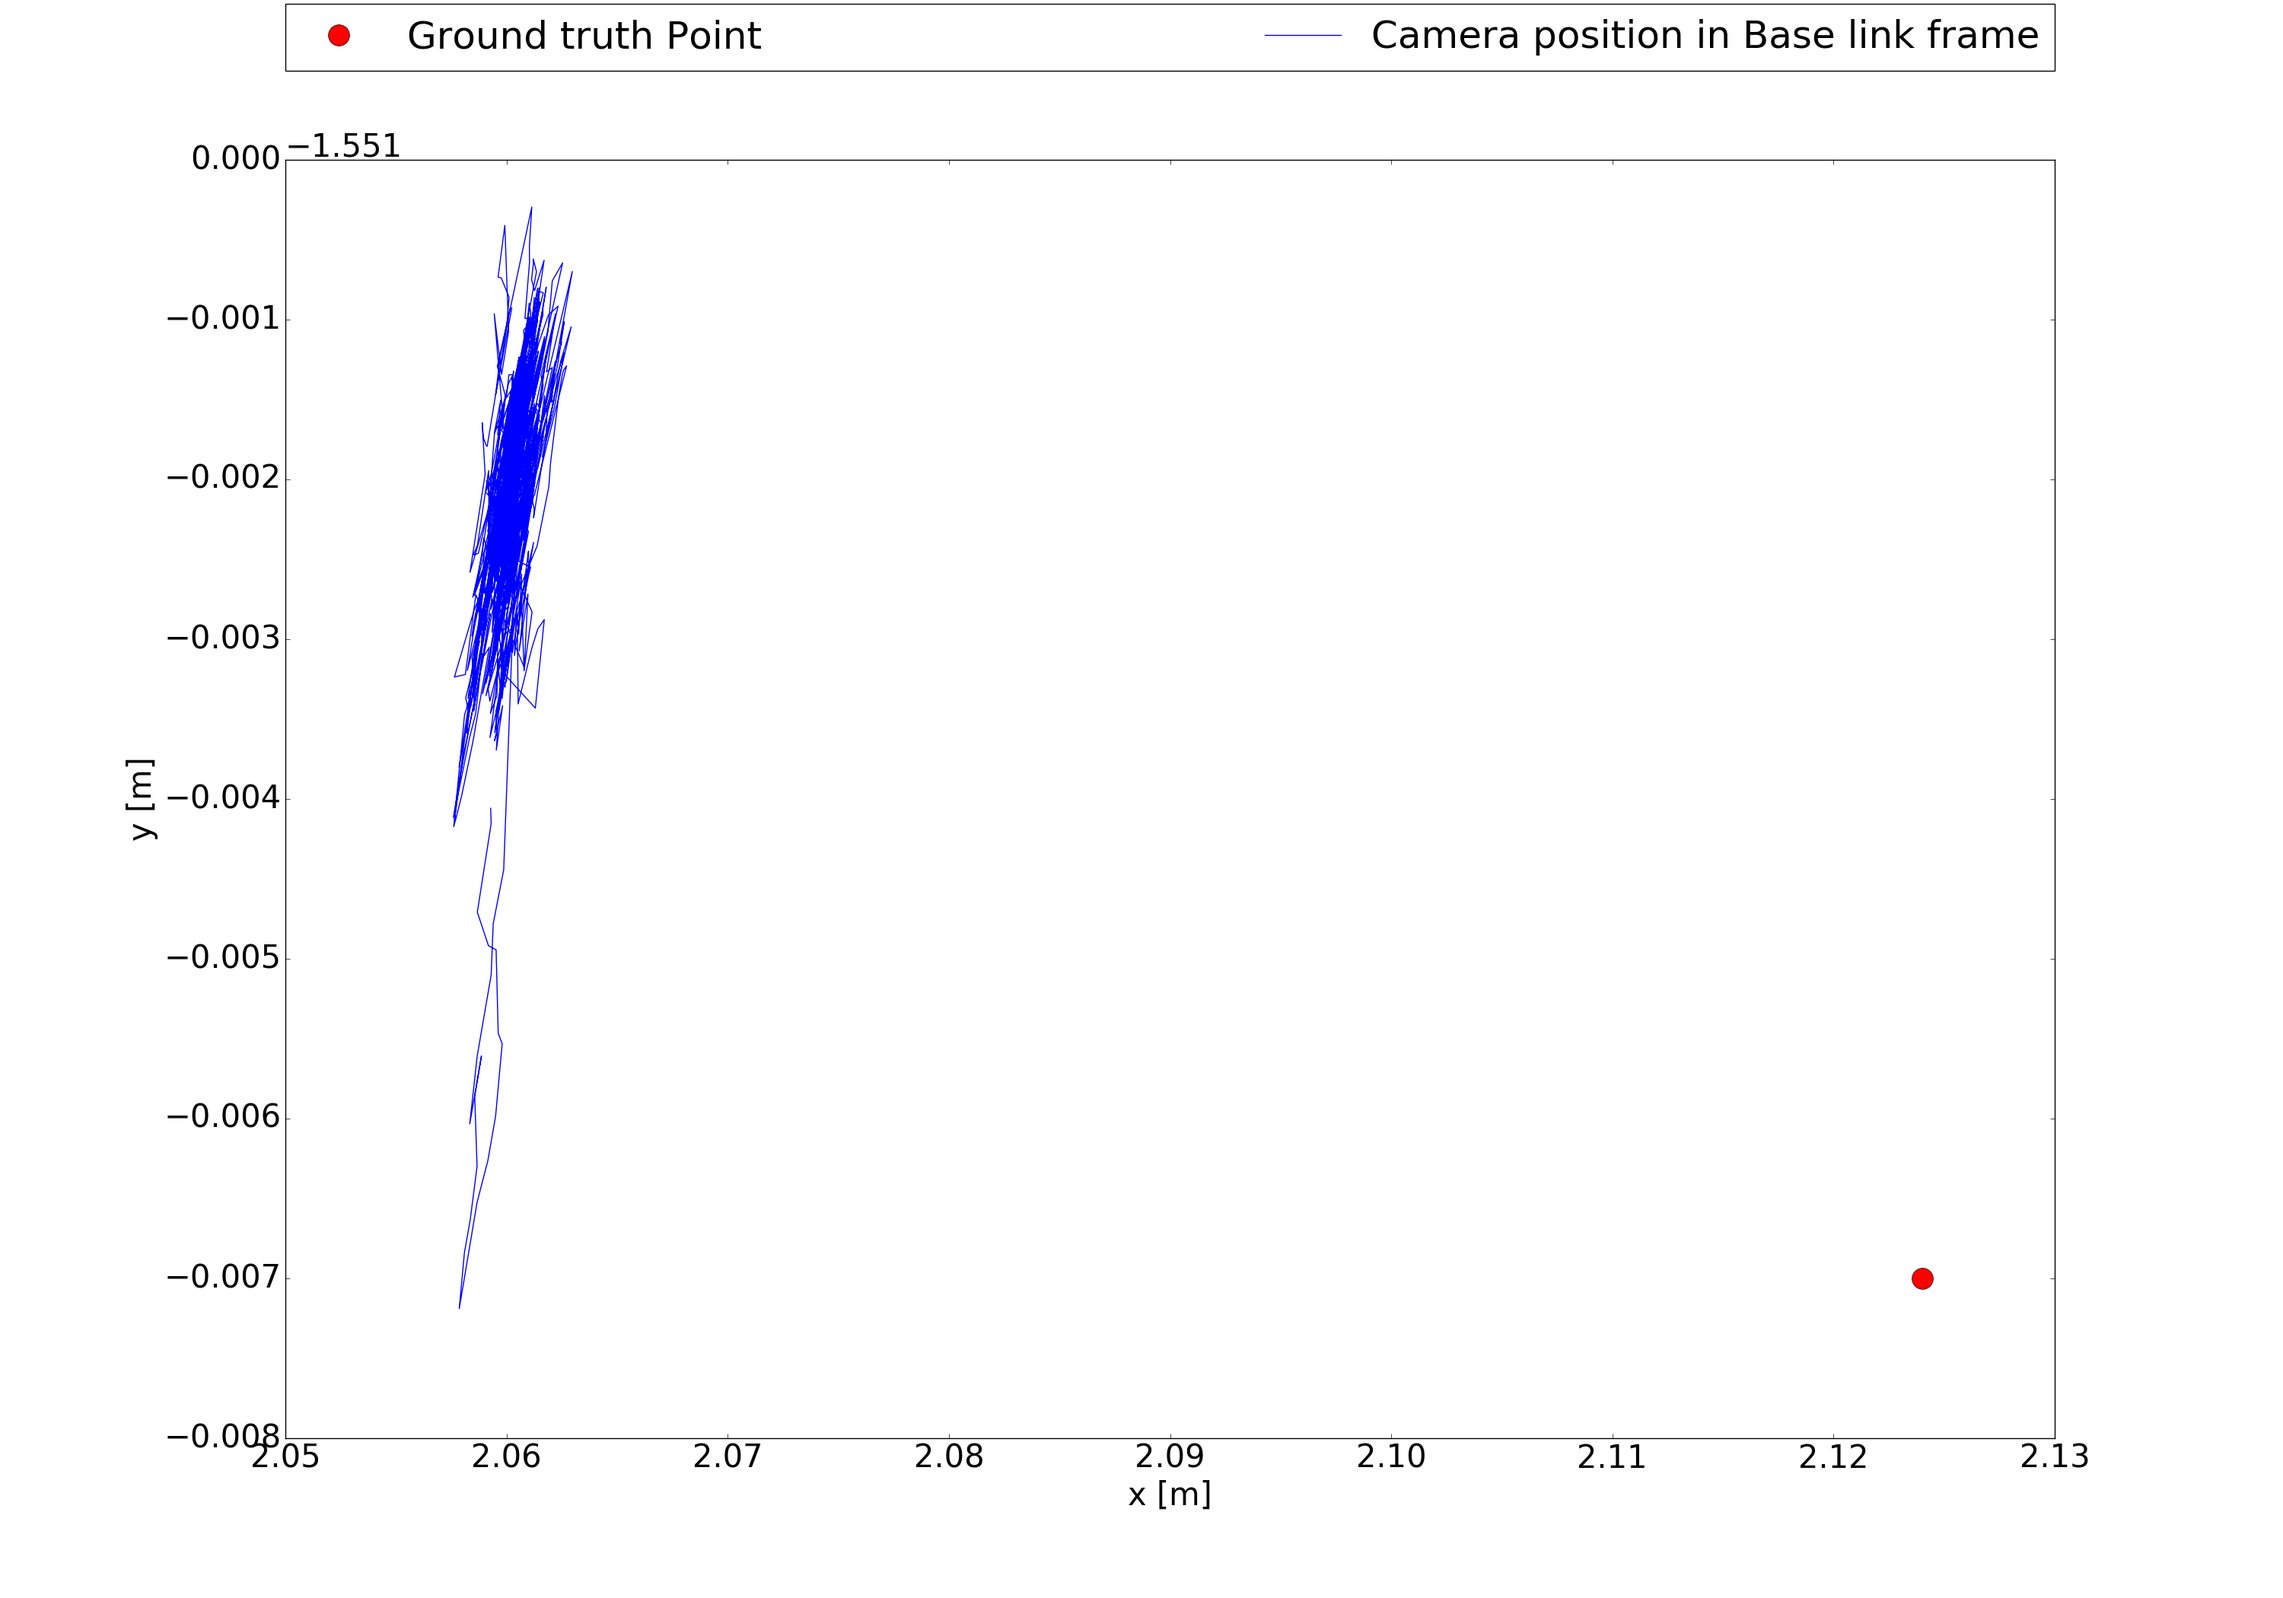
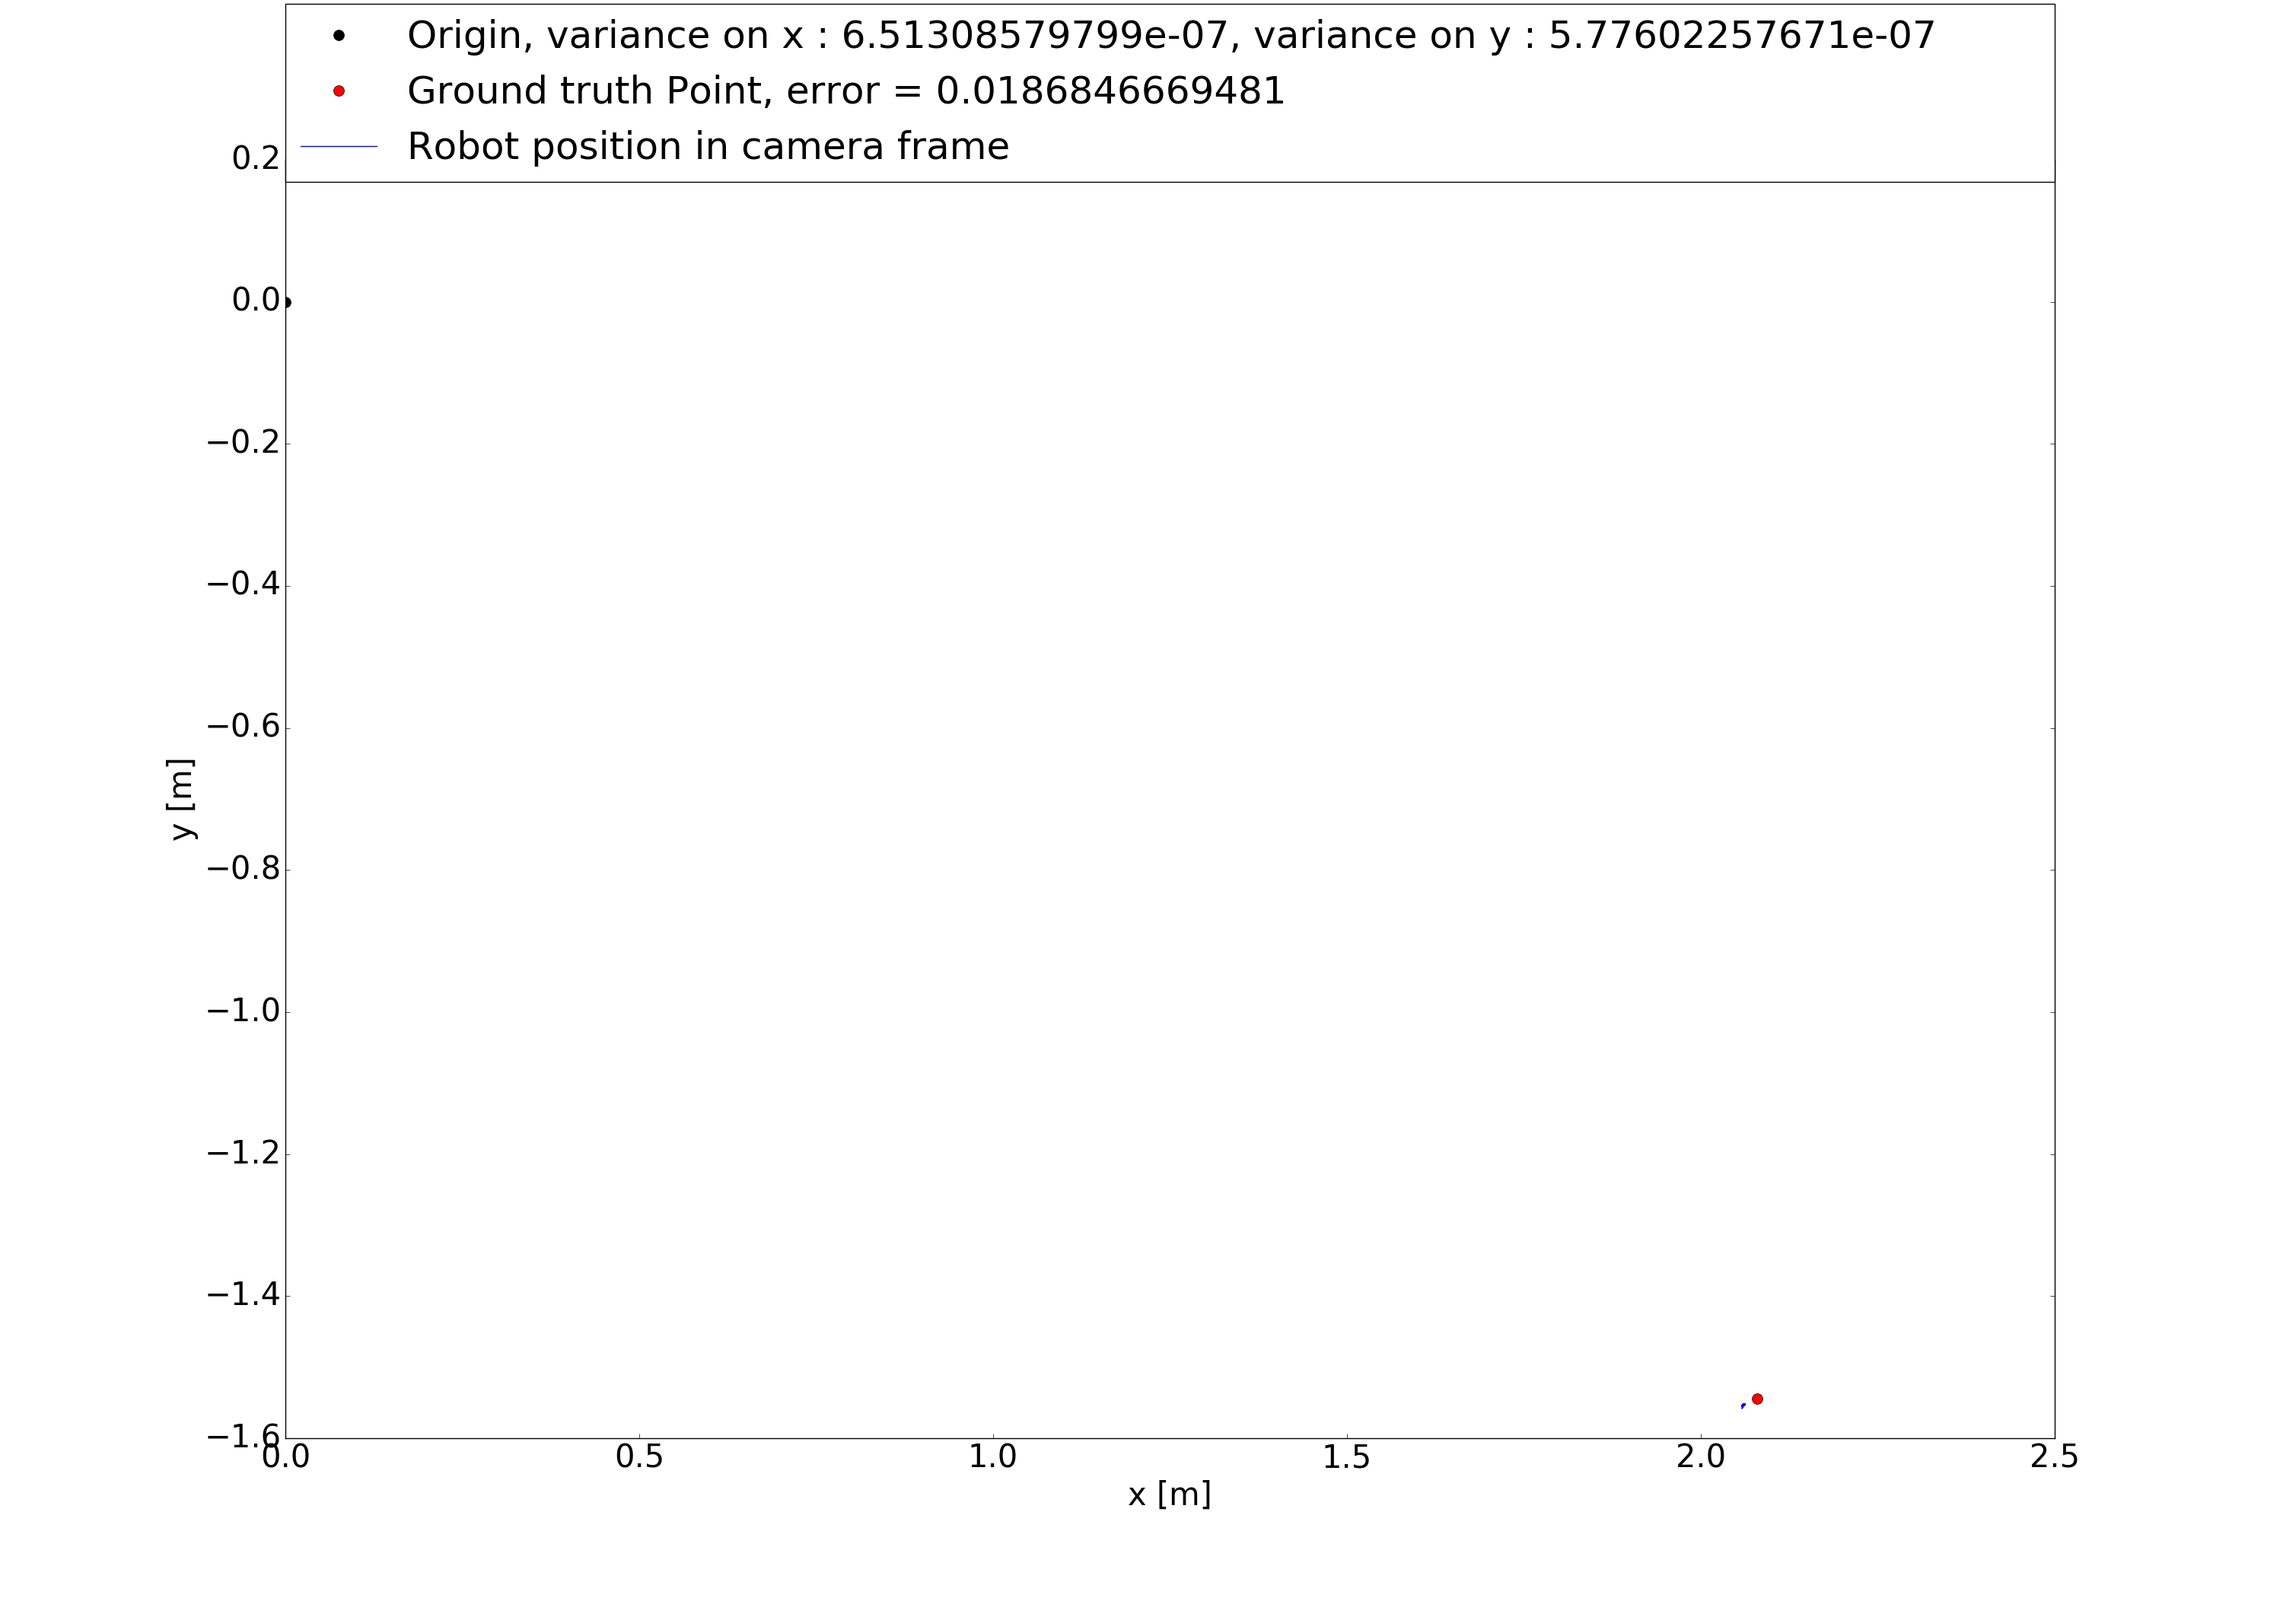
Add variance

diff --git a/Kyb_prog/indoor_measurment/manual_measurment_indoor/drift.py b/Kyb_prog/indoor_measurment/manual_measurment_indoor/drift.py
@@ -14,7 +14,7 @@ base_link_y_odom_camera = []
 file_name = 'drift-base_link_odom_camera_is1500.csv'
 
 #  Define waypoints
-Strecke_1 = [[2.124, -1.558]]
+Strecke_1 = [[2.080, -1.544]]
 numberPoints = len(Strecke_1) # number points of Ground_Truth
 data_soll = Strecke_1;
 
@@ -34,17 +34,42 @@ with open(file_name,'r') as csvfile:
       base_link_x_odom_camera.append(np.multiply(1, float(row[6])))
       base_link_y_odom_camera.append(np.multiply(1, float(row[7])))
 
+x_err_1 = np.empty((numberPoints, len(base_link_x_odom_camera)))
+y_err_1 = np.empty((numberPoints, len(base_link_x_odom_camera)))
+err_abs_1 = np.empty((numberPoints, len(base_link_x_odom_camera)))
+err_min_1 = np.empty((numberPoints, 1))
+n_1 = np.empty((numberPoints, 1))
+
+#*******************************************************************************
+#           Min calulation
+#*******************************************************************************
+
+#  Assumptions : - The min point from odom are the closest to Strecke_1, if the
+#  robot drift, you could not have the real min which that mean it pass not in
+#  the right moment moment where you think.
+    # print(Strecke_1[i][0])
+x_err_1 = np.subtract(data_soll[0][0], base_link_x_odom_camera)
+y_err_1 = np.subtract(data_soll[0][1], base_link_y_odom_camera)
+err_abs_1 = np.power(np.add(np.power(x_err_1, 2), np.power(y_err_1, 2)), 0.5)
+err_min_1 = min(err_abs_1)
+n_1 = err_abs_1.tolist().index(min(err_abs_1))
+    # end of the loop
+
+print(np.var(base_link_x_odom_camera))
+print(np.var(base_link_y_odom_camera))
 
 plt.rcParams.update({'font.size': 30})
 
 # print(Strecke_1[int(1)][int(1)])
 f = plt.figure(1, figsize=(30, 21))
-plt.plot(Strecke_1[int(0)][int(0)], Strecke_1[int(0)][int(1)], 'o' ,color='red', markersize=20, label="Ground truth Point ")
-plt.plot(base_link_x_odom_camera, base_link_y_odom_camera, label='Camera position in Base link frame')
+plt.plot(0, 0, 'o' ,color='black', markersize=10, label="Origin, variance on x : " + str(np.var(base_link_x_odom_camera))+", variance on y : " + str(np.var(base_link_y_odom_camera)))
+plt.plot(Strecke_1[int(0)][int(0)], Strecke_1[int(0)][int(1)], 'o' ,color='red', markersize=10, label="Ground truth Point, error = " + str(err_min_1))
+plt.plot(base_link_x_odom_camera, base_link_y_odom_camera, label='Robot position in camera frame')
+plt.plot(label='Variance on x : ' + str(np.var(base_link_x_odom_camera)))
 plt.xlabel('x [m]')
 plt.ylabel('y [m]')
 plt.legend(numpoints=1, bbox_to_anchor=(0., 1.02, 1., .102), loc=1,
-           ncol=3, mode="expand", borderaxespad=0.)#bbox_to_anchor=(0., 1.02, 1., .102)
+           ncol=1, mode="expand", borderaxespad=0.)#bbox_to_anchor=(0., 1.02, 1., .102)
 f.savefig(file_name+'.png')
 # plt.close(f)
 
